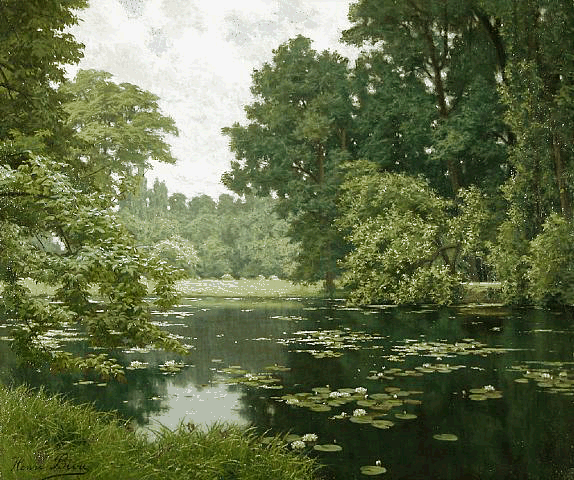
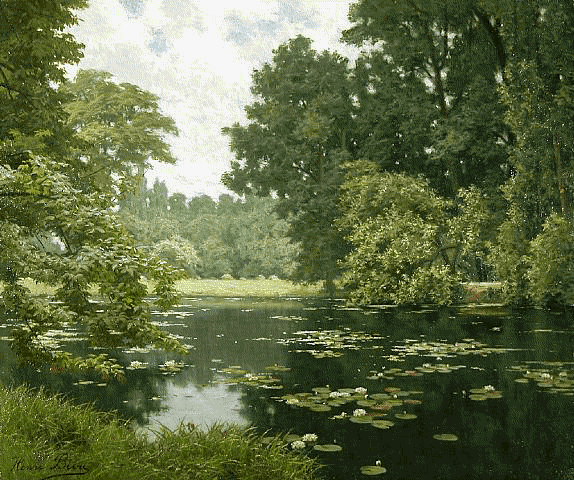
New PNG8 previews, much better

diff --git a/png8/index.html b/png8/index.html
@@ -6,22 +6,26 @@
 <p>Étang en Ile de France by Henri Biva, RGBA8888 PNG-32<br>618 KB, 534 KB after pngout optimization</p>
 <img src="Painting_by_Henri_Biva_PNG32.png" width="574" height="500" /><br>
 <p>Étang en Ile de France by Henri Biva, Indexed PNG-8<br>235 KB, 204 KB after pngout optimization</p>
-<img src="Painting_by_Henri_Biva_PNG8.png" width="574" height="500" /><br>
+<img src="Painting_by_Henri_Biva_PNG8_old.png" width="574" height="500" /><br>
 <p>Étang en Ile de France by Henri Biva, Indexed PNG-8 with DawnBringer Aurora palette<br>165 KB, 114 KB after pngout optimization</p>
 <img src="Painting_by_Henri_Biva_PNG8_Aurora.png" width="574" height="500" /><br>
 <p>Étang en Ile de France by Henri Biva, Indexed PNG-8 with Sierra Lite dither<br>240 KB, 209 KB after pngout optimization</p>
 <img src="Painting_by_Henri_Biva_PNG8_Dithered.png" width="574" height="500" /><br>
 <p>Étang en Ile de France by Henri Biva, Indexed PNG-8 with DawnBringer Aurora palette and Sierra Lite dither<br>173 KB, 118 KB after pngout optimization</p>
 <img src="Painting_by_Henri_Biva_PNG8_Aurora_Dithered.png" width="574" height="500" /><br>
+<p>Étang en Ile de France by Henri Biva, indexed PNG-8 with adaptive palette (threshold 1000) and Sierra Lite dither<br>163 KB, 127 KB after pngout optimization</p>
+<img src="Painting_by_Henri_Biva_PNG8_Aurora_Dithered.png" width="574" height="500" /><br>
 <p>Mona Lisa by Leonardo da Vinci (color remastered), RGBA8888 PNG-32<br>1.13 MB, 0.99 MB after pngout optimization</p>
 <img src="Mona_Lisa_PNG32.png" width="690" height="1024" /><br>
 <p>Mona Lisa by Leonardo da Vinci (color remastered), indexed PNG-8<br>473 KB, 339 KB after pngout optimization</p>
-<img src="Mona_Lisa_PNG8.png" width="690" height="1024" /><br>
+<img src="Mona_Lisa_PNG8_old.png" width="690" height="1024" /><br>
 <p>Mona Lisa by Leonardo da Vinci (color remastered), indexed PNG-8 with DawnBringer Aurora palette<br>250 KB, 167 KB after pngout optimization</p>
 <img src="Mona_Lisa_PNG8_Aurora.png" width="690" height="1024" /><br>
 <p>Mona Lisa by Leonardo da Vinci (color remastered), indexed PNG-8 with Sierra Lite dither<br>531 KB, 374 KB after pngout optimization</p>
 <img src="Mona_Lisa_PNG8_Dithered.png" width="690" height="1024" /><br>
 <p>Mona Lisa by Leonardo da Vinci (color remastered), indexed PNG-8 with DawnBringer Aurora palette and Sierra Lite dither<br>342 KB, 217 KB after pngout optimization</p>
 <img src="Mona_Lisa_PNG8_Aurora_Dithered.png" width="690" height="1024" /><br>
+<p>Mona Lisa by Leonardo da Vinci (color remastered), indexed PNG-8 with adaptive palette (threshold 1000) and Sierra Lite dither<br>370 KB, 240 KB after pngout optimization</p>
+<img src="Mona_Lisa_PNG8.png" width="690" height="1024" /><br>
 </body>
 </html>
